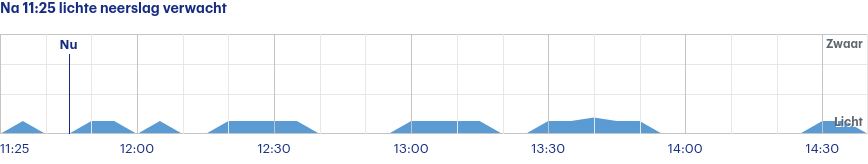
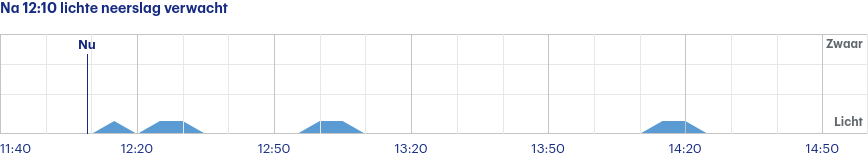
Latest scraping buienradar: Sun Aug  6 10:00:34 UTC 2023

diff --git a/scrapes/buienradar/buienradar-jette-3-uur.md b/scrapes/buienradar/buienradar-jette-3-uur.md
@@ -1,4 +1,4 @@
-Na 11:25 lichte neerslag verwacht
+Na 12:10 lichte neerslag verwacht
 
 ![](buienradar-jette-3-uur.png)
 
